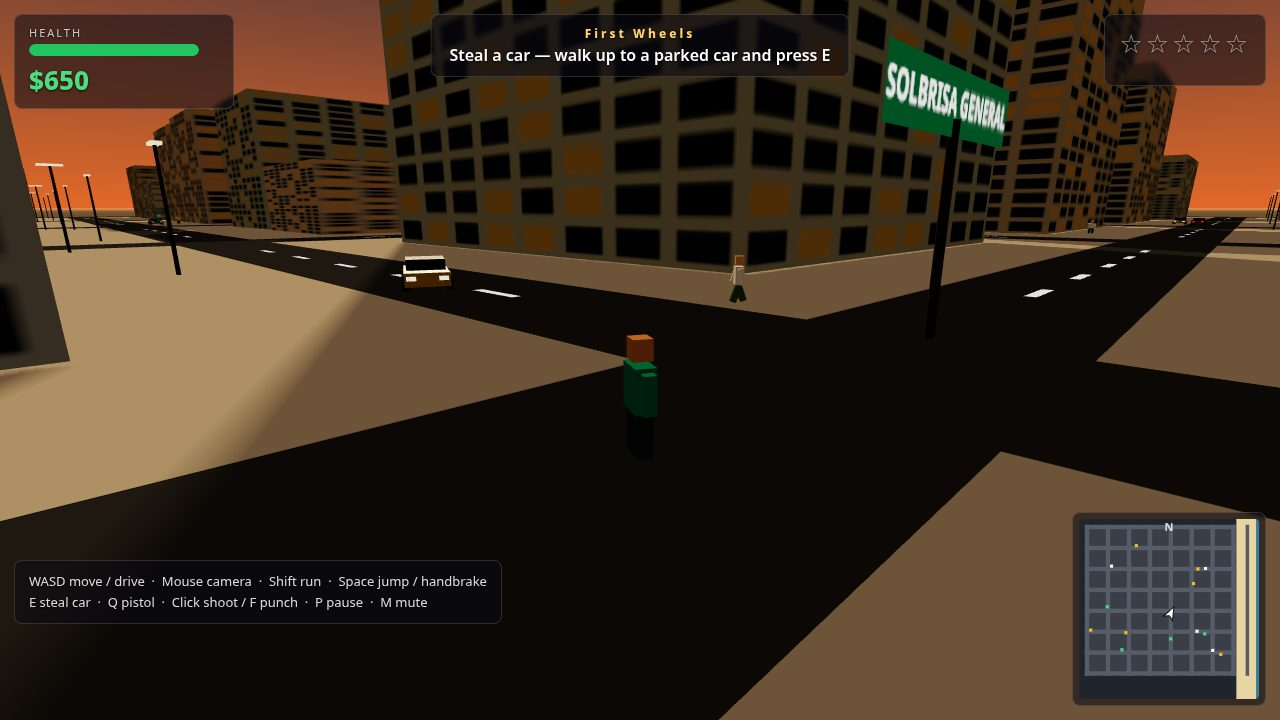
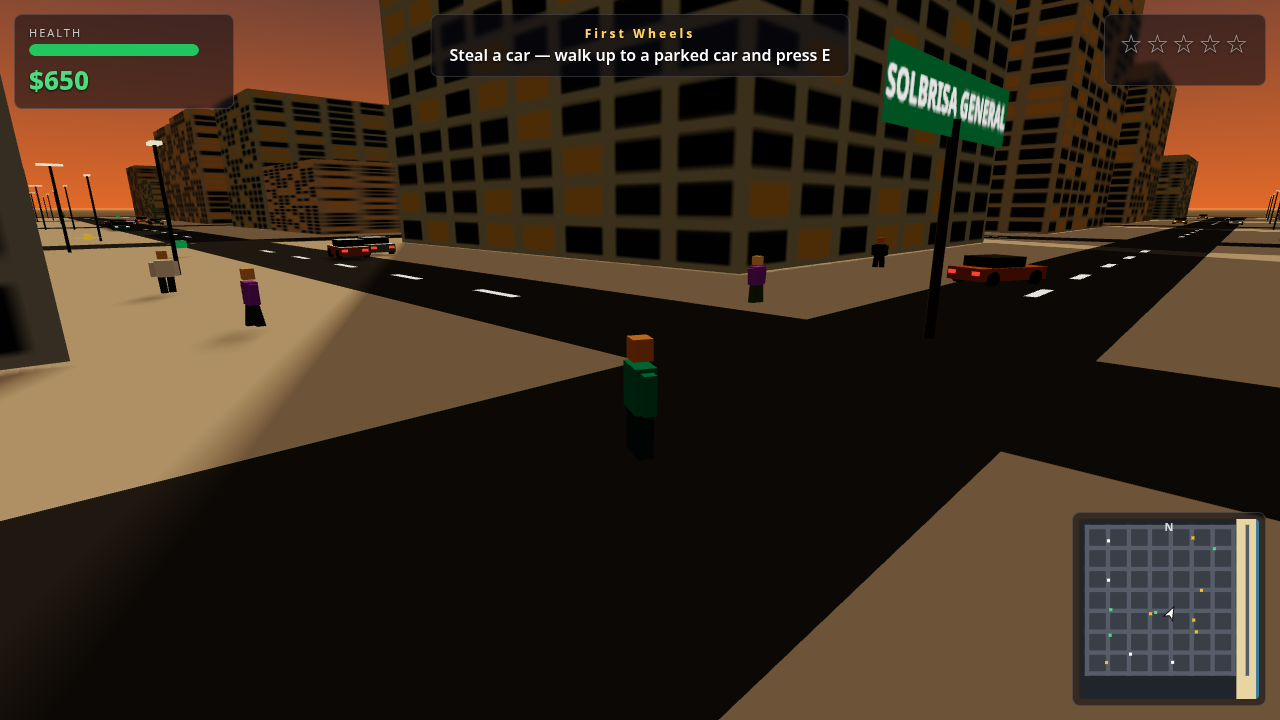
SOLBRISA Tier 1: denser streets, visible chase, combat shot, no hint bar in shots

diff --git a/game/src/shots.js b/game/src/shots.js
@@ -1,10 +1,11 @@
-// The screenshot scenes behind ?shot=chase|street|coast|mission|start. Each one
+// The screenshot scenes behind ?shot=chase|street|coast|combat|mission|start. Each one
 // stages the real game — a real car, real police, a real mission — then plays
 // it forward with a scripted pilot for a fixed number of steps, so the frame is
 // what a short game really looks like and the same seed always gives the same
 // frame. main.js runs the steps, renders, and sets window.__shotReady.
 
-import { addWanted } from './police.js';
+import { addWanted, hurtCop } from './police.js';
+import { scarePeds } from './pedestrians.js';
 import { jumpToMission } from './missions.js';
 import { enterCar } from './player.js';
 
@@ -68,17 +69,58 @@ function stageChase(G) {
         at: 239,
         fn() {
           // Final frame: full health (the chase has been ramming the player),
-          // and one police car head-on in the far lane so the chase is visible
-          // ahead of the player, not just behind the camera.
+          // two police cars VISIBLE ahead of the player, traffic for depth,
+          // and two pedestrians on the south sidewalk (bottom-right of frame).
           G.player.health = 100;
           const lead = G.police.cars[0];
           if (lead) {
-            lead.pos.x = car.pos.x + 24;
+            // Same direction and speed as the player: it stays ~14 units
+            // ahead at capture time instead of closing head-on into the
+            // flank car (43 u/s closing speed ate the gap in ~0.3 s).
+            lead.pos.x = car.pos.x + 14;
             lead.pos.z = 33.5;
-            lead.heading = -Math.PI / 2;
-            lead.speed = 18;
+            lead.heading = Math.PI / 2;
+            lead.speed = 26;
             lead.mesh.position.set(lead.pos.x, 0, lead.pos.z);
             lead.mesh.rotation.y = lead.heading;
+          }
+          const flank = G.police.cars[1];
+          if (flank) {
+            flank.pos.x = car.pos.x + 2;
+            flank.pos.z = 33.5;
+            flank.heading = Math.PI / 2;
+            flank.speed = 22;
+            flank.mesh.position.set(flank.pos.x, 0, flank.pos.z);
+            flank.mesh.rotation.y = flank.heading;
+          }
+          const t = G.cars.filter((c) => c.kind === 'traffic');
+          if (t[0]) {
+            t[0].pos.x = car.pos.x + 40;
+            t[0].pos.z = 39.4;
+            t[0].heading = Math.PI / 2;
+            t[0].speed = 12;
+            t[0].mesh.position.set(t[0].pos.x, 0, t[0].pos.z);
+            t[0].mesh.rotation.y = t[0].heading;
+          }
+          if (t[1]) {
+            t[1].pos.x = car.pos.x + 55;
+            t[1].pos.z = 33.5;
+            t[1].heading = -Math.PI / 2;
+            t[1].speed = 12;
+            t[1].mesh.position.set(t[1].pos.x, 0, t[1].pos.z);
+            t[1].mesh.rotation.y = t[1].heading;
+          }
+          const p0 = G.peds[0];
+          if (p0) {
+            p0.pos.x = car.pos.x + 10;
+            p0.pos.z = 46.2;
+            p0.mesh.position.set(p0.pos.x, 0, p0.pos.z);
+          }
+          const p1 = G.peds[1];
+          if (p1) {
+            p1.pos.x = car.pos.x + 25;
+            p1.pos.z = 46.2;
+            p1.mesh.position.set(p1.pos.x, 0, p1.pos.z);
           }
         },
       },
@@ -102,25 +144,26 @@ function stageStreet(G) {
       {
         at: 179,
         fn() {
-          // Put one traffic car and one pedestrian in the camera's view for
-          // the final frame: the car crossing on 36th, the ped on the corner.
-          const t = G.cars.find((c) => c.kind === 'traffic');
-          if (t) {
-            t.pos.x = 10;
-            t.pos.z = 36;
-            t.heading = Math.PI / 2;
-            t.speed = 12;
-            t.mesh.position.set(10, 0, 36);
-            t.mesh.rotation.y = t.heading;
-          }
-          const ped = G.peds[0];
-          if (ped) {
-            ped.pos.x = 28;
-            ped.pos.z = 30;
-            ped.heading = Math.PI * 0.75;
-            ped.mesh.position.set(28, 0, 30);
-            ped.mesh.rotation.y = ped.heading;
-          }
+          // Three traffic cars and four pedestrians in the camera's view for
+          // the final frame: the street reads alive instead of empty.
+          const t = G.cars.filter((c) => c.kind === 'traffic');
+          const placeCar = (c, x, z, heading, speed) => {
+            if (!c) return;
+            c.pos.x = x; c.pos.z = z; c.heading = heading; c.speed = speed;
+            c.mesh.position.set(x, 0, z); c.mesh.rotation.y = heading;
+          };
+          placeCar(t[0], 10, 36, Math.PI / 2, 12);    // east on 36th (old)
+          placeCar(t[1], 32.6, 20, Math.PI, 12);      // north on 36th Ave
+          placeCar(t[2], -6, 32.6, -Math.PI / 2, 12); // west on 36th, far
+          const placePed = (p, x, z) => {
+            if (!p) return;
+            p.pos.x = x; p.pos.z = z;
+            p.mesh.position.set(x, 0, z); p.mesh.rotation.y = p.heading;
+          };
+          placePed(G.peds[0], 28, 30);   // corner (old)
+          placePed(G.peds[1], 20, 46.2); // south sidewalk of 36th
+          placePed(G.peds[2], 8, 46.2);  // south sidewalk, further west
+          placePed(G.peds[3], 25.8, 12); // west sidewalk of 36th Ave
         },
       },
     ],
@@ -139,6 +182,102 @@ function stageCoast(G) {
   return {
     steps: 200,
     pilot: makePilot(1, () => clamp((300 - car.pos.x) * 0.2, -1, 1)),
+    midways: [
+      {
+        at: 199,
+        fn() {
+          // Final frame: two cars on the coast road and three people on the
+          // sand, so the beach reads inhabited instead of empty.
+          // Parked cars, not traffic: traffic wraps to a random city lane
+          // whenever |x| > 274, and the coast road sits at x = 300 — traffic
+          // placed here respawns away in the very next step. Parked cars are
+          // never stepped, so they hold their staged spots.
+          const parked = G.cars.filter((c) => c.kind === 'parked' && c !== car);
+          const placeCar = (c, x, z, heading) => {
+            if (!c) return;
+            c.pos.x = x; c.pos.z = z; c.heading = heading; c.speed = 0;
+            c.mesh.position.set(x, 0, z); c.mesh.rotation.y = heading;
+          };
+          placeCar(parked[0], 303.4, car.pos.z - 20, Math.PI); // north, ahead
+          placeCar(parked[1], 296.6, car.pos.z - 32, 0);       // south, oncoming
+          const placePed = (p, x, z) => {
+            if (!p) return;
+            p.pos.x = x; p.pos.z = z;
+            p.mesh.position.set(x, 0, z);
+          };
+          placePed(G.peds[0], 312, car.pos.z - 8);  // beach, right of frame
+          placePed(G.peds[1], 318, car.pos.z - 18);
+          placePed(G.peds[2], 309, car.pos.z - 28);
+        },
+      },
+    ],
+  };
+}
+
+function stageCombat(G) {
+  // Shootout outside the police station: pistol drawn, one cop down, the
+  // rest closing in, peds fleeing. Combat exists in the game but no current
+  // screenshot shows any of it.
+  G.money = 850;
+  jumpToMission(G.missions, 2, 0);
+  G.player.armed = true;
+  G.player.ammo = 24;
+  G.player.pos.x = -36;
+  G.player.pos.z = -44;
+  G.player.heading = Math.PI;
+  G.player.mesh.position.set(-36, 0, -44);
+  addWanted(G.police, 3, 0);
+  G.cameraRig.setFixed({ yaw: 0, pitch: 0.26, distance: 9 });
+  return {
+    steps: 150,
+    pilot: makePilot(0, 0),
+    midways: [
+      {
+        at: 60,
+        fn() {
+          // Pull two police cars into the road ahead of the player.
+          const c0 = G.police.cars[0];
+          if (c0) {
+            c0.pos.x = -39.4; c0.pos.z = -60; c0.heading = Math.PI; c0.speed = 20;
+            c0.mesh.position.set(c0.pos.x, 0, c0.pos.z);
+            c0.mesh.rotation.y = c0.heading;
+          }
+          const c1 = G.police.cars[1];
+          if (c1) {
+            c1.pos.x = -32.6; c1.pos.z = -68; c1.heading = 0; c1.speed = 18;
+            c1.mesh.position.set(c1.pos.x, 0, c1.pos.z);
+            c1.mesh.rotation.y = c1.heading;
+          }
+        },
+      },
+      {
+        at: 149,
+        fn() {
+          G.player.health = 100;
+          // One cop down in the open, shot where he fell: impact sparks
+          // still hang in the air when the frame is taken. Six units ahead
+          // of the player so the prone body reads clearly at this angle.
+          const down = G.police.cops[0];
+          if (down) {
+            down.pos.x = -34; down.pos.z = -50;
+            down.mesh.position.set(-34, 0, -50);
+            hurtCop(down, 100);
+            G.combat.spawnSparks({ x: -34, y: 1.2, z: -50 }, 0xff4444);
+          }
+          // Two more cops closing in on foot, visible mid-frame.
+          const c1 = G.police.cops[1];
+          if (c1) { c1.pos.x = -38; c1.pos.z = -52; c1.mesh.position.set(-38, 0, -52); }
+          const c2 = G.police.cops[2];
+          if (c2) { c2.pos.x = -32; c2.pos.z = -58; c2.mesh.position.set(-32, 0, -58); }
+          // Peds in the street, fleeing the gunfire.
+          const p0 = G.peds[0];
+          if (p0) { p0.pos.x = -28; p0.pos.z = -50; p0.mesh.position.set(-28, 0, -50); }
+          const p1 = G.peds[1];
+          if (p1) { p1.pos.x = -44; p1.pos.z = -58; p1.mesh.position.set(-44, 0, -58); }
+          scarePeds(G.peds, -36, -50, 30);
+        },
+      },
+    ],
   };
 }
 
@@ -164,6 +303,7 @@ function stageStart(G) {
 export function stageShot(name, G) {
   if (name === 'chase') return stageChase(G);
   if (name === 'coast') return stageCoast(G);
+  if (name === 'combat') return stageCombat(G);
   if (name === 'mission') return stageMission(G);
   if (name === 'start') return stageStart(G);
   return stageStreet(G);

diff --git a/main.ts b/main.ts
@@ -1,4 +1,6 @@
 // SOLBRISA — a three.js open-world crime game for make.fun gta6-01.
+// Tier 1 (21 Nov 2026): re-staged screenshots — denser streets, visible chase,
+// a combat frame — same game, same systems, livelier frames.
 // A working gta6-01 entry (Node 22, standard library only): the game is this directory's
 // game/ folder, plain static files a desktop browser loads offline (game/index.html and its ES
 // modules, no library and no network request), and the program hands it in. It copies game/ and

diff --git a/game/src/config.js b/game/src/config.js
@@ -50,9 +50,9 @@ export const CAR = {
   enterRange: 3.4,
 };
 
-export const TRAFFIC = { count: 14, speedMin: 9, speedMax: 14, turnChance: 0.22 };
-export const PEDS = { count: 26, walkMin: 1.1, walkMax: 2.0, fleeSpeed: 5.5 };
-export const PARKED = { count: 16 };
+export const TRAFFIC = { count: 30, speedMin: 9, speedMax: 14, turnChance: 0.22 };
+export const PEDS = { count: 60, walkMin: 1.1, walkMax: 2.0, fleeSpeed: 5.5 };
+export const PARKED = { count: 30 };
 
 export const POLICE = {
   maxCars: 5,

diff --git a/game/src/main.js b/game/src/main.js
@@ -369,7 +369,7 @@ function renderFrame(dt) {
     prompt: player.onFoot && car ? 'Press E to steal the car' : driving ? 'E — exit car · Space — handbrake' : '',
     armed: player.armed,
     ammo: player.ammo,
-    showHint: G.screen === 'play' && G.time - G.playStart < 25,
+    showHint: !G.shotMode && G.screen === 'play' && G.time - G.playStart < 25,
     muted: G.muted,
   });
   minimap.draw(G.time, player, missionTarget(missions), police, combat.pickups);

diff --git a/README.md b/README.md
@@ -24,7 +24,7 @@ node serve.ts
 
 Then open http://localhost:8080. No build step, no network requests at runtime — the game is plain static files under `game/` (three.js is vendored).
 
-Screenshots are staged deterministically: `?shot=chase|street|coast|mission|start&seed=7`.
+Screenshots are staged deterministically: `?shot=chase|street|coast|combat|mission|start&seed=7`. Tier 1 (21 Nov 2026): denser streets (30 traffic, 60 peds, 30 parked), police visible in the chase frame, and a new combat frame replacing the mission shot.
 
 ---
 
